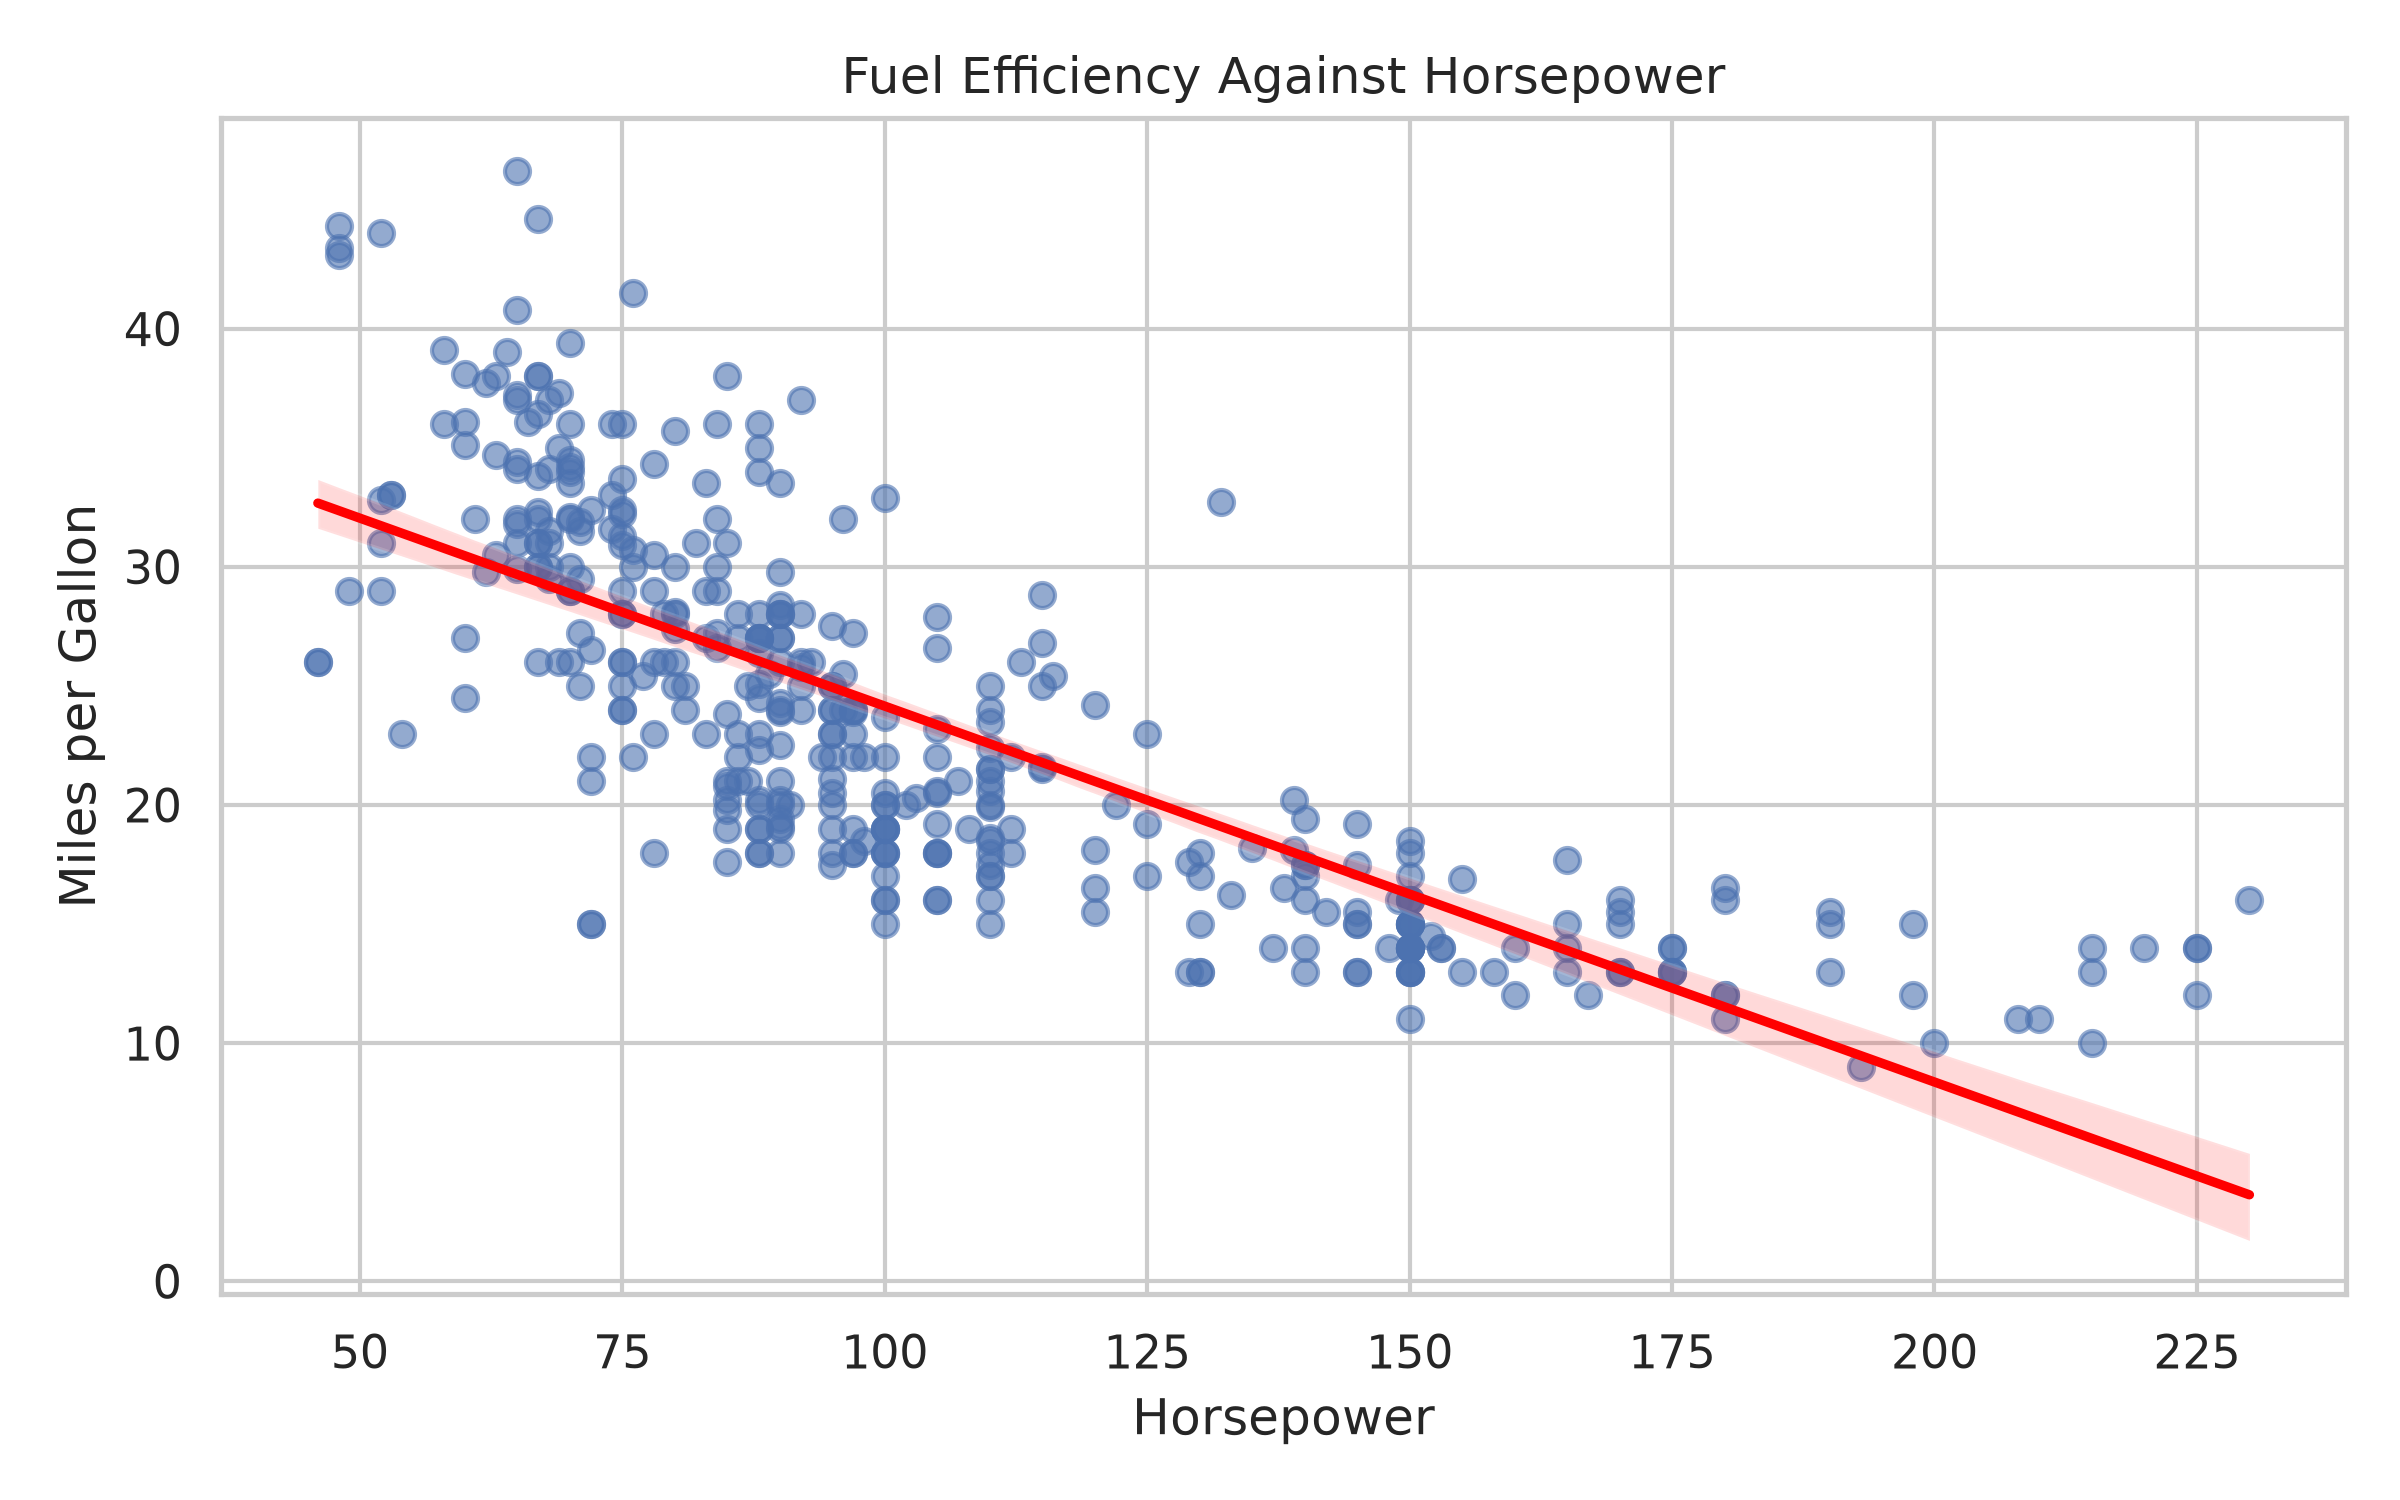
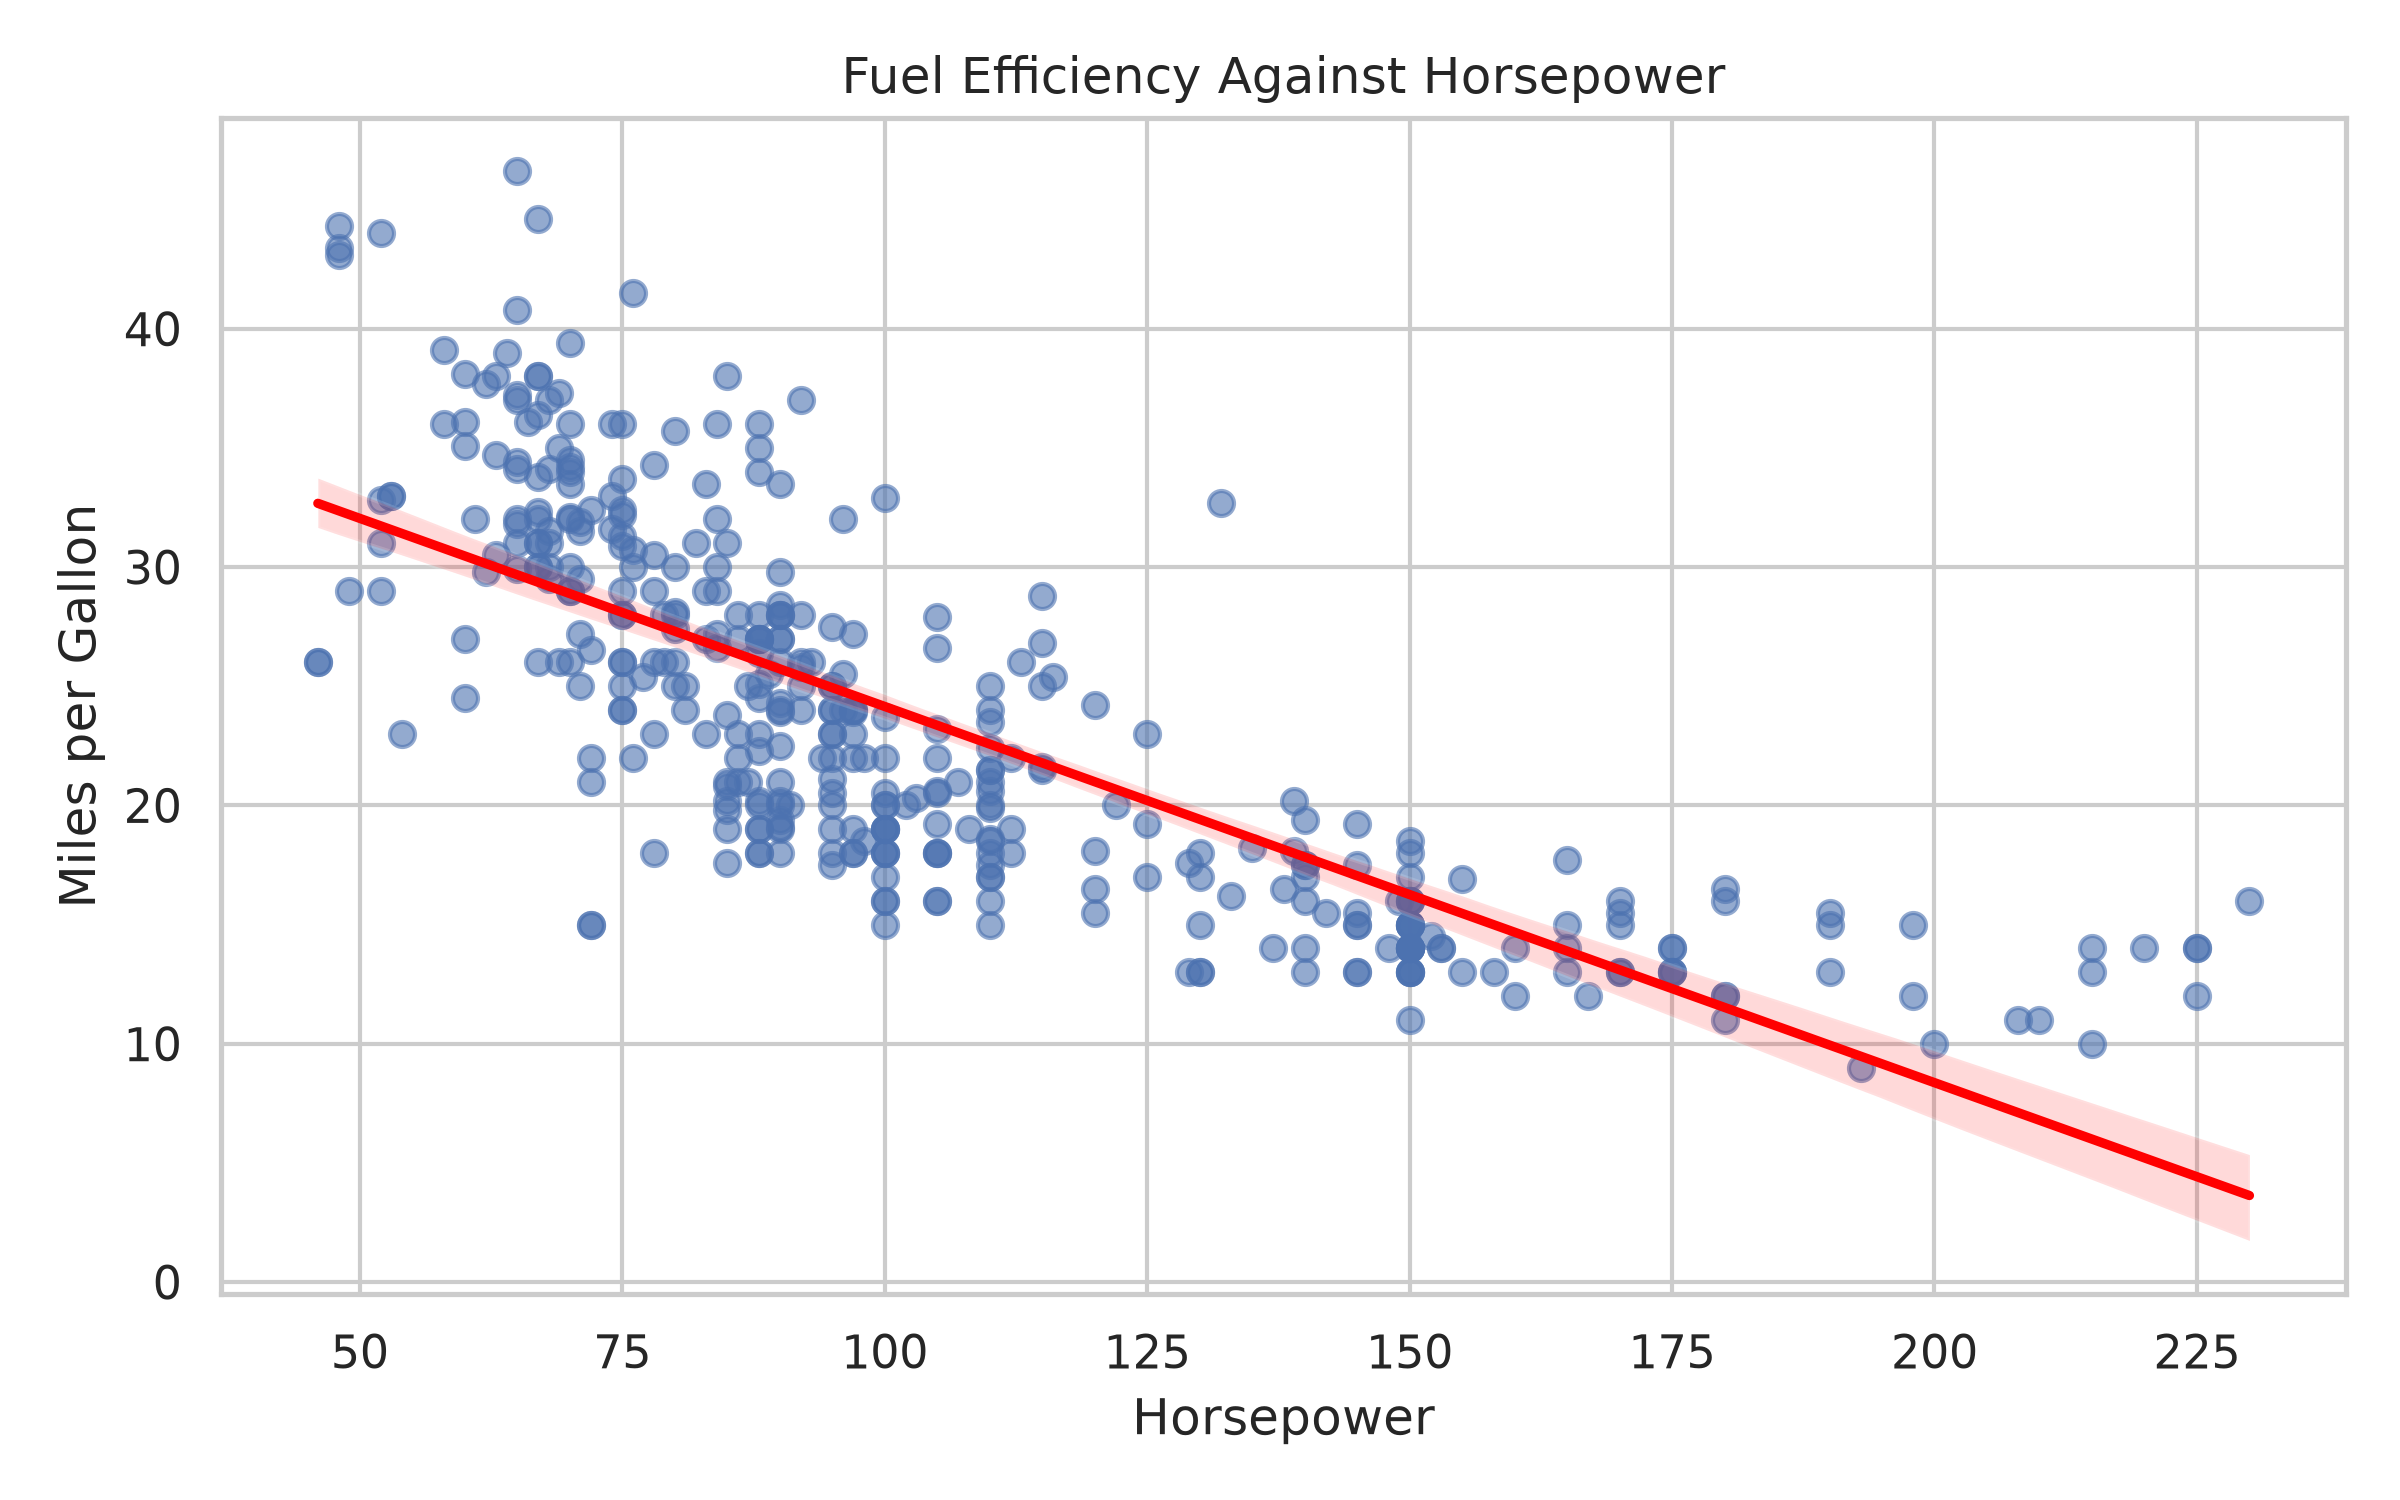
Fixing an issue with the repoducability of the figures in script 2.

Changed region(s): [[0.5312, 0.552, 0.5938, 0.6133], [0.7188, 0.6747, 0.75, 0.7053], [0.3125, 0.4907, 0.3438, 0.5213]]

diff --git a/scripts/auto_mpg/02_eda.py b/scripts/auto_mpg/02_eda.py
@@ -86,7 +86,7 @@ plt.close()
 
 # We now plot the MPG against vehicle weight using a linear regression 
 plt.figure(figsize=(8, 5))
-sns.regplot(data=df, x="weight", y="mpg", scatter_kws={"alpha": 0.6}, line_kws={"color": "red"},)
+sns.regplot(data=df, x="weight", y="mpg",seed =42, scatter_kws={"alpha": 0.6}, line_kws={"color": "red"},)
 
 #Set the titles and labels for the plot
 plt.title("Fuel Efficiency Against Vehicle Weight")
@@ -101,7 +101,7 @@ plt.close()
 
 # We again use regplot to visualise the relationship between MPG and horsepower using linear regression
 plt.figure(figsize=(8, 5))
-sns.regplot(data=df, x="horsepower", y="mpg", scatter_kws={"alpha": 0.6}, line_kws={"color": "red"},)
+sns.regplot(data=df, x="horsepower", y="mpg",seed =42, scatter_kws={"alpha": 0.6}, line_kws={"color": "red"},)
 
 #Set the titles and labels for the plot
 plt.title("Fuel Efficiency Against Horsepower")
